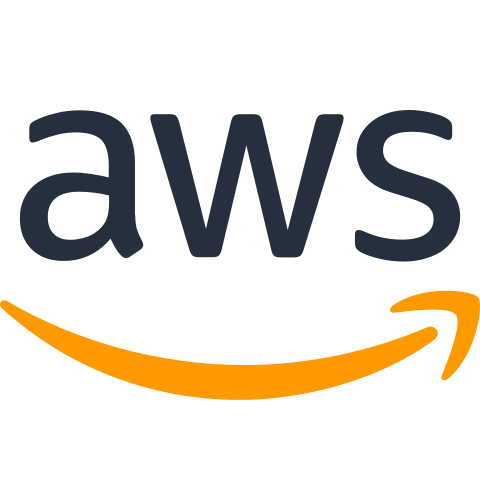
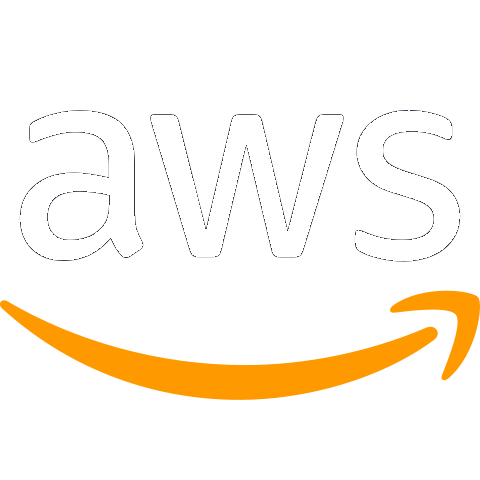
deploy: 2205f7ebb388a19a054f9ef61b7ab236583ff099

Changed region(s): [[0.3125, 0.2188, 0.9688, 0.5625], [0.0312, 0.2188, 0.3125, 0.5625]]

diff --git a/flutter_service_worker.js b/flutter_service_worker.js
@@ -52,7 +52,7 @@ const RESOURCES = {"canvaskit/skwasm.wasm": "39dd80367a4e71582d234948adc521c0",
 "assets/lib/web/assets/images/image_profile.jpg": "4d0181695c99ab49317fe727fe764941",
 "assets/lib/web/assets/images/postgresql_icon.png": "ad6d4e2c3c5476ddd86132495815649a",
 "assets/lib/web/assets/images/azure_icon.png": "5ba7cc955d9b5e32daae978a90cbece9",
-"assets/lib/web/assets/images/aws_icon.png": "8765d9679aabf2d213b9043bbb3813e8",
+"assets/lib/web/assets/images/aws_icon.png": "5eb8b905543b57ca98cf4d1f15726863",
 "assets/lib/web/assets/images/brazil_flag.png": "a7fef007321c8398394424fcf564e1f9",
 "assets/lib/web/assets/images/youtube_icon.png": "ca6d67e60f758d352745329b283e8f32",
 "assets/lib/web/assets/images/sql_server_icon.png": "cffdb21910256fd6f767fc011779bf3d",
@@ -69,7 +69,7 @@ const RESOURCES = {"canvaskit/skwasm.wasm": "39dd80367a4e71582d234948adc521c0",
 "icons/Icon-maskable-192.png": "c457ef57daa1d16f64b27b786ec2ea3c",
 "icons/Icon-192.png": "ac9a721a12bbc803b44f645561ecb1e1",
 "icons/Icon-maskable-512.png": "301a7604d45b3e739efc881eb04896ea",
-"flutter_bootstrap.js": "ad7daf66c0733e605282550842966b07",
+"flutter_bootstrap.js": "963da4a95b791d67cbfd85c61f7f378f",
 "version.json": "46d24ca199e2d2273af147fc86ab4b2c"};
 // The application shell files that are downloaded before a service worker can
 // start.

diff --git a/flutter_bootstrap.js b/flutter_bootstrap.js
@@ -39,6 +39,6 @@ _flutter.buildConfig = {"engineRevision":"dd93de6fb1776398bf586cbd477deade1391c7
 
 _flutter.loader.load({
   serviceWorkerSettings: {
-    serviceWorkerVersion: "462471250"
+    serviceWorkerVersion: "1808246090"
   }
 });
